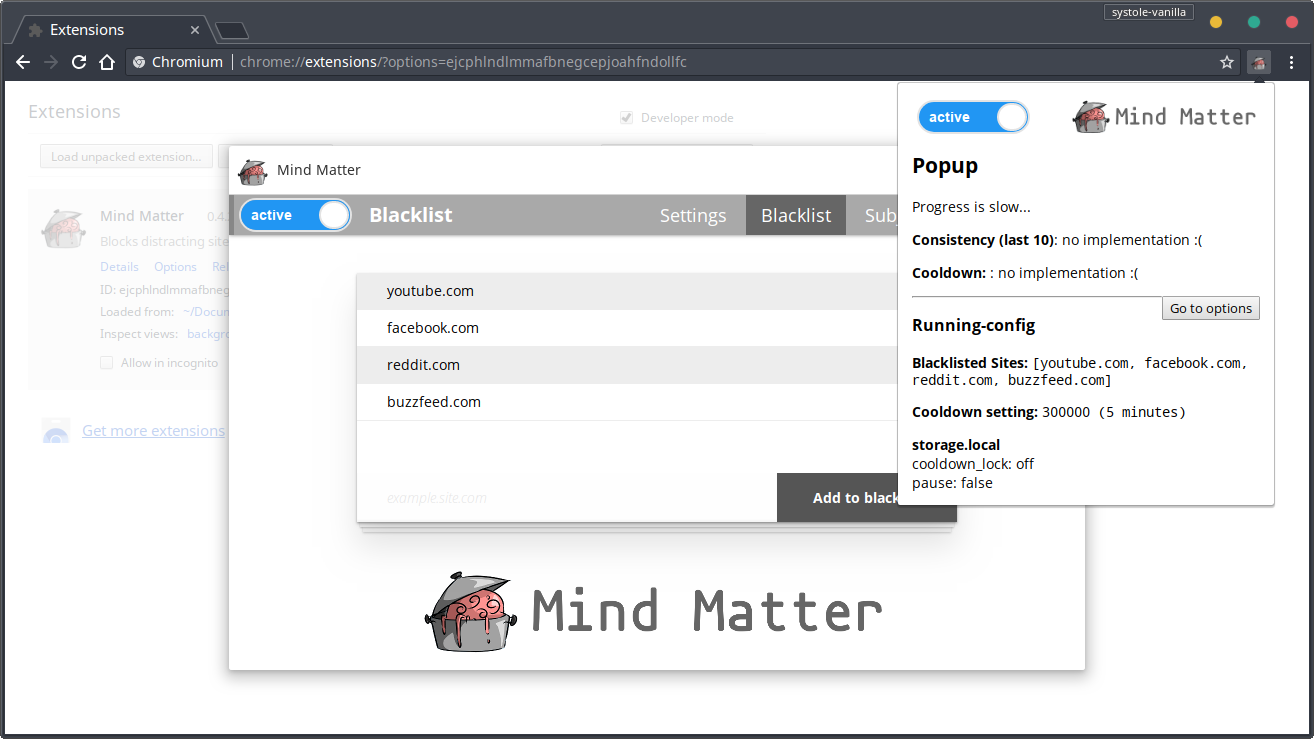
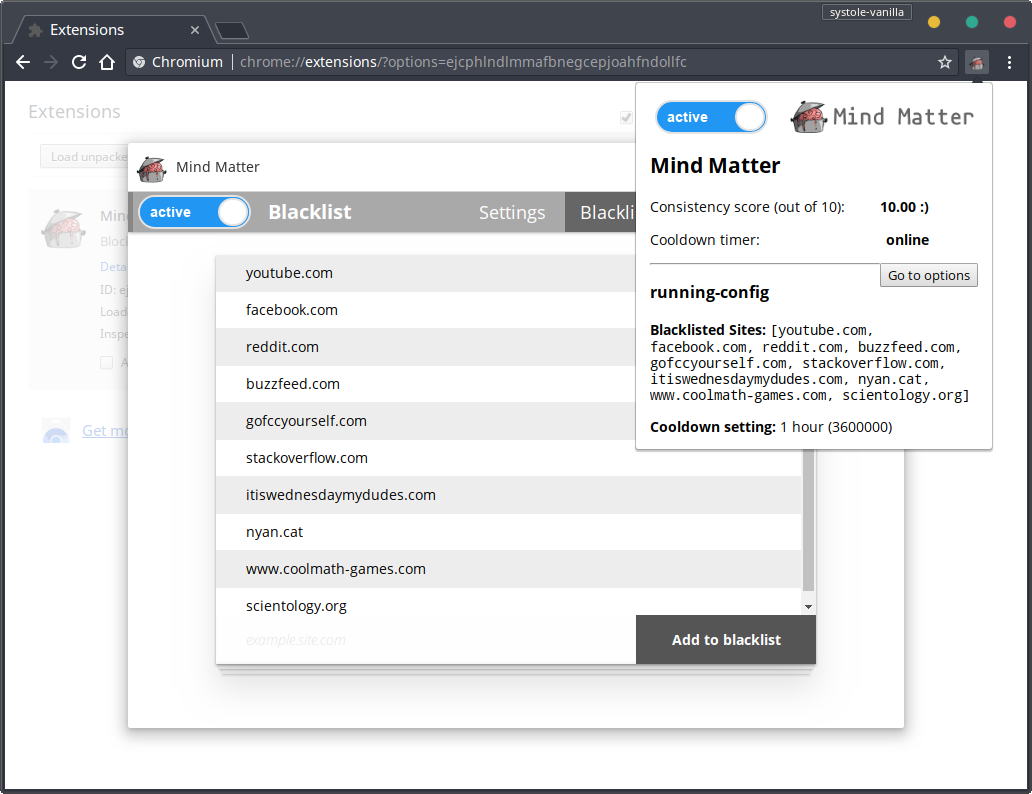
Update screenshots

Changed region(s): [[0.0, 0.0, 1.0, 0.9959], [0.4651, 0.1556, 0.5581, 0.1867]]

diff --git a/README.md b/README.md
@@ -29,6 +29,7 @@ Or. install the development version (master branch) as an *unpacked extension*.
 
 ## Screenshots
 
+![Settings page](docs/screenshots/settings.png)
 ![Blacklist options page](docs/screenshots/blacklist.png)
 ![Question prompt](docs/screenshots/question.png)
 ![Cooldown notification](docs/screenshots/cooldown.png)
@@ -38,8 +39,6 @@ Or. install the development version (master branch) as an *unpacked extension*.
 The psychologist Daniel Kahneman describes two systems of thinking. According to [Wikipedia](https://en.wikipedia.org/wiki/Thinking_Fast_and_Slow), "'System 1' is fast, instinctive, and emotional; 'System 2' is slower, more deliberative, and more logical."
 
 Surfing the Internet tends to be unproductive. The objective of *Mind Matter* is to disrupt cognitive ease and force users to perform system 2 thinking.
-
-*Although, the FCC chairman Ajit Pai's rejection of Net Neutrality might solve the issue of Internet distractions anyway...*
 
 #### Acknowledgements
 
